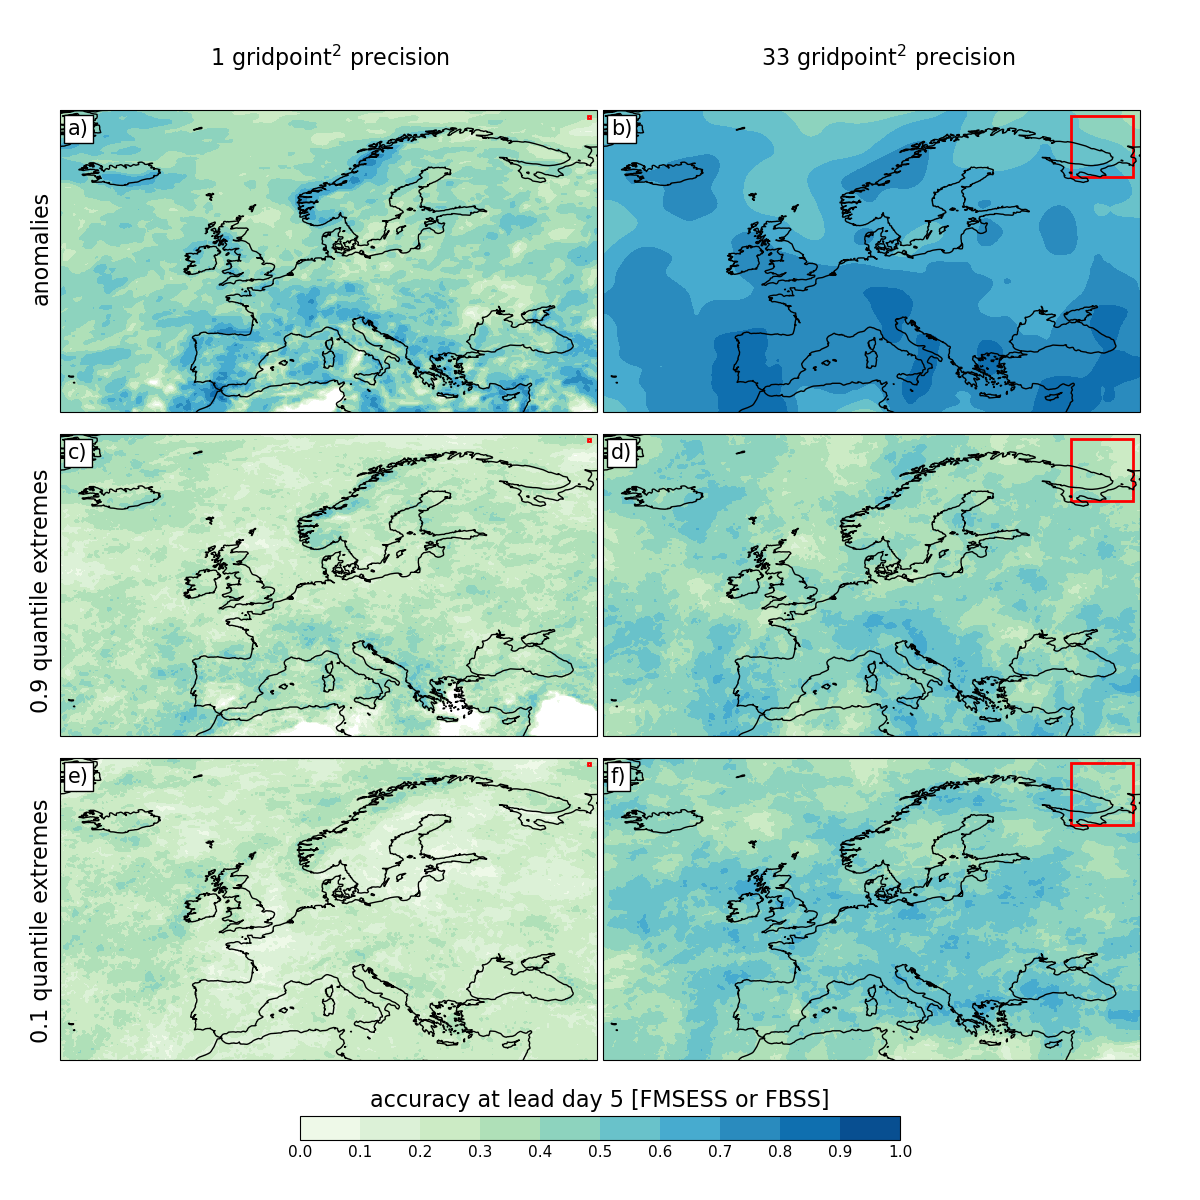
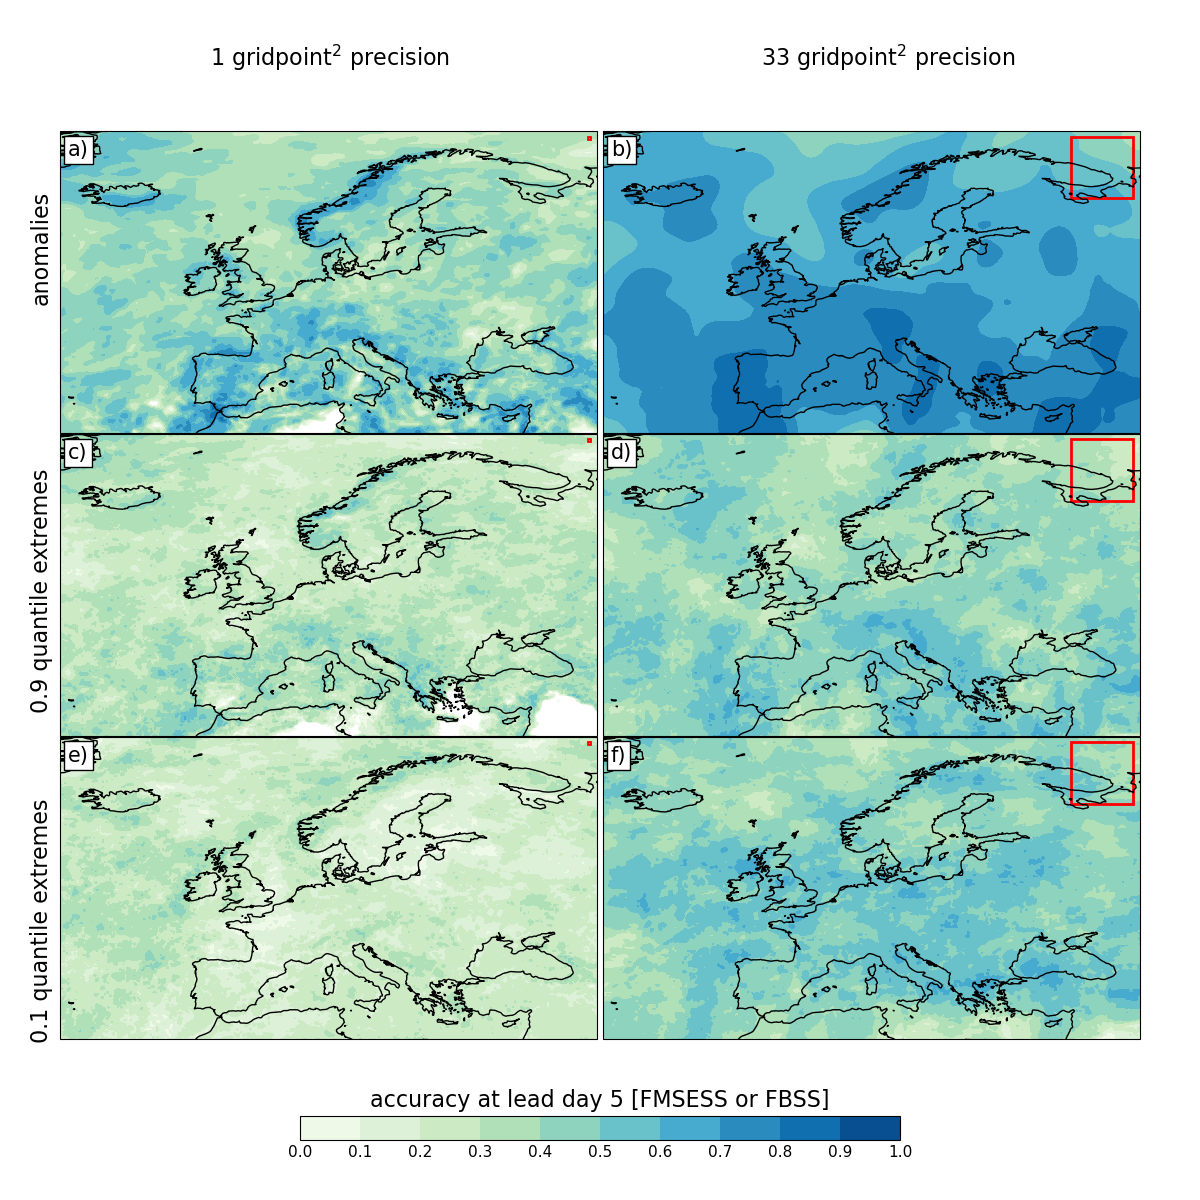
update

Changed region(s): [[0.0308, 0.6167, 0.9558, 0.8942], [0.0308, 0.0925, 0.9558, 0.37]]

diff --git a/code/plot/plot-fig-02.py b/code/plot/plot-fig-02.py
@@ -65,7 +65,7 @@ fig,ax     = plt.subplots(nrows=3,ncols=2,figsize=(figsize[0],figsize[1]),subplo
 ax         = ax.ravel()
 
 #fig.subplots_adjust(right=0.95, left=0.05,top=0.975,bottom=0.05,hspace=-0.25,wspace=0.025)
-fig.subplots_adjust(right=0.95, left=0.05,top=0.975,bottom=0.05,hspace=-0.3,wspace=0.01)
+fig.subplots_adjust(right=0.95, left=0.05,top=0.975,bottom=0.05,hspace=-0.4,wspace=0.01)
 
 setup_subplot_xy(1, ax[0], 'a)', ds1, clevs, cmap, fontsize)
 setup_subplot_xy(2, ax[1], 'b)', ds2, clevs, cmap, fontsize)
